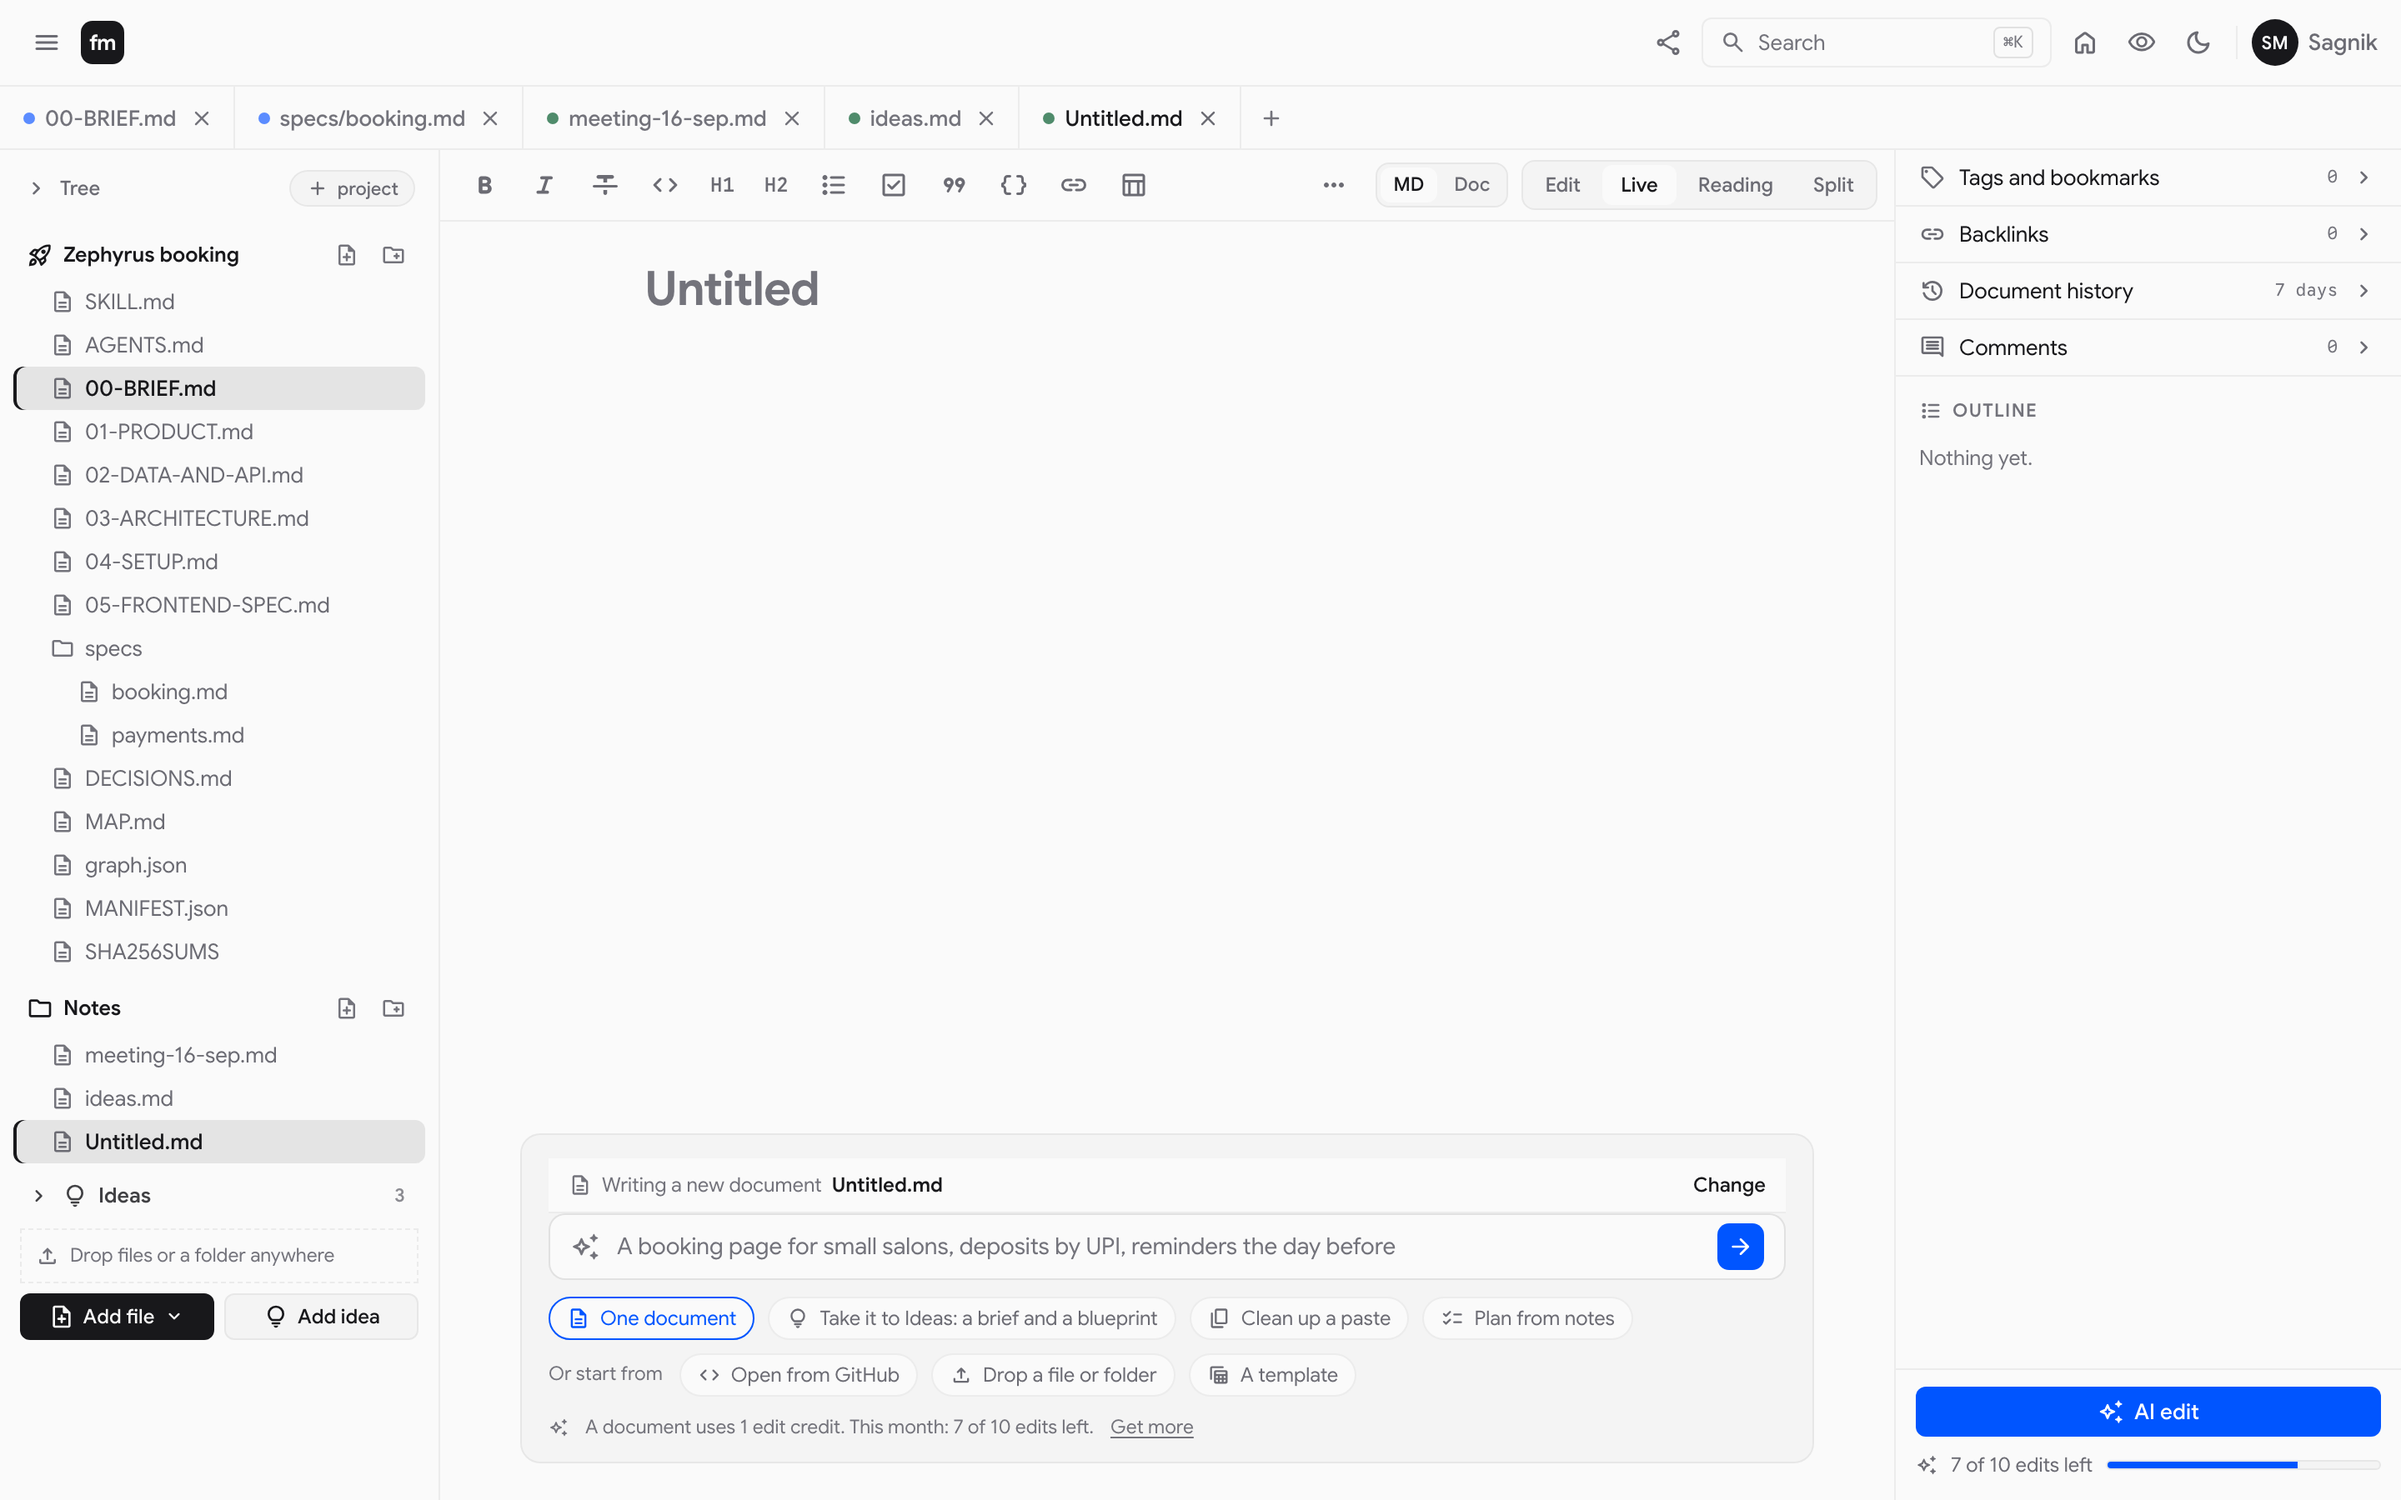
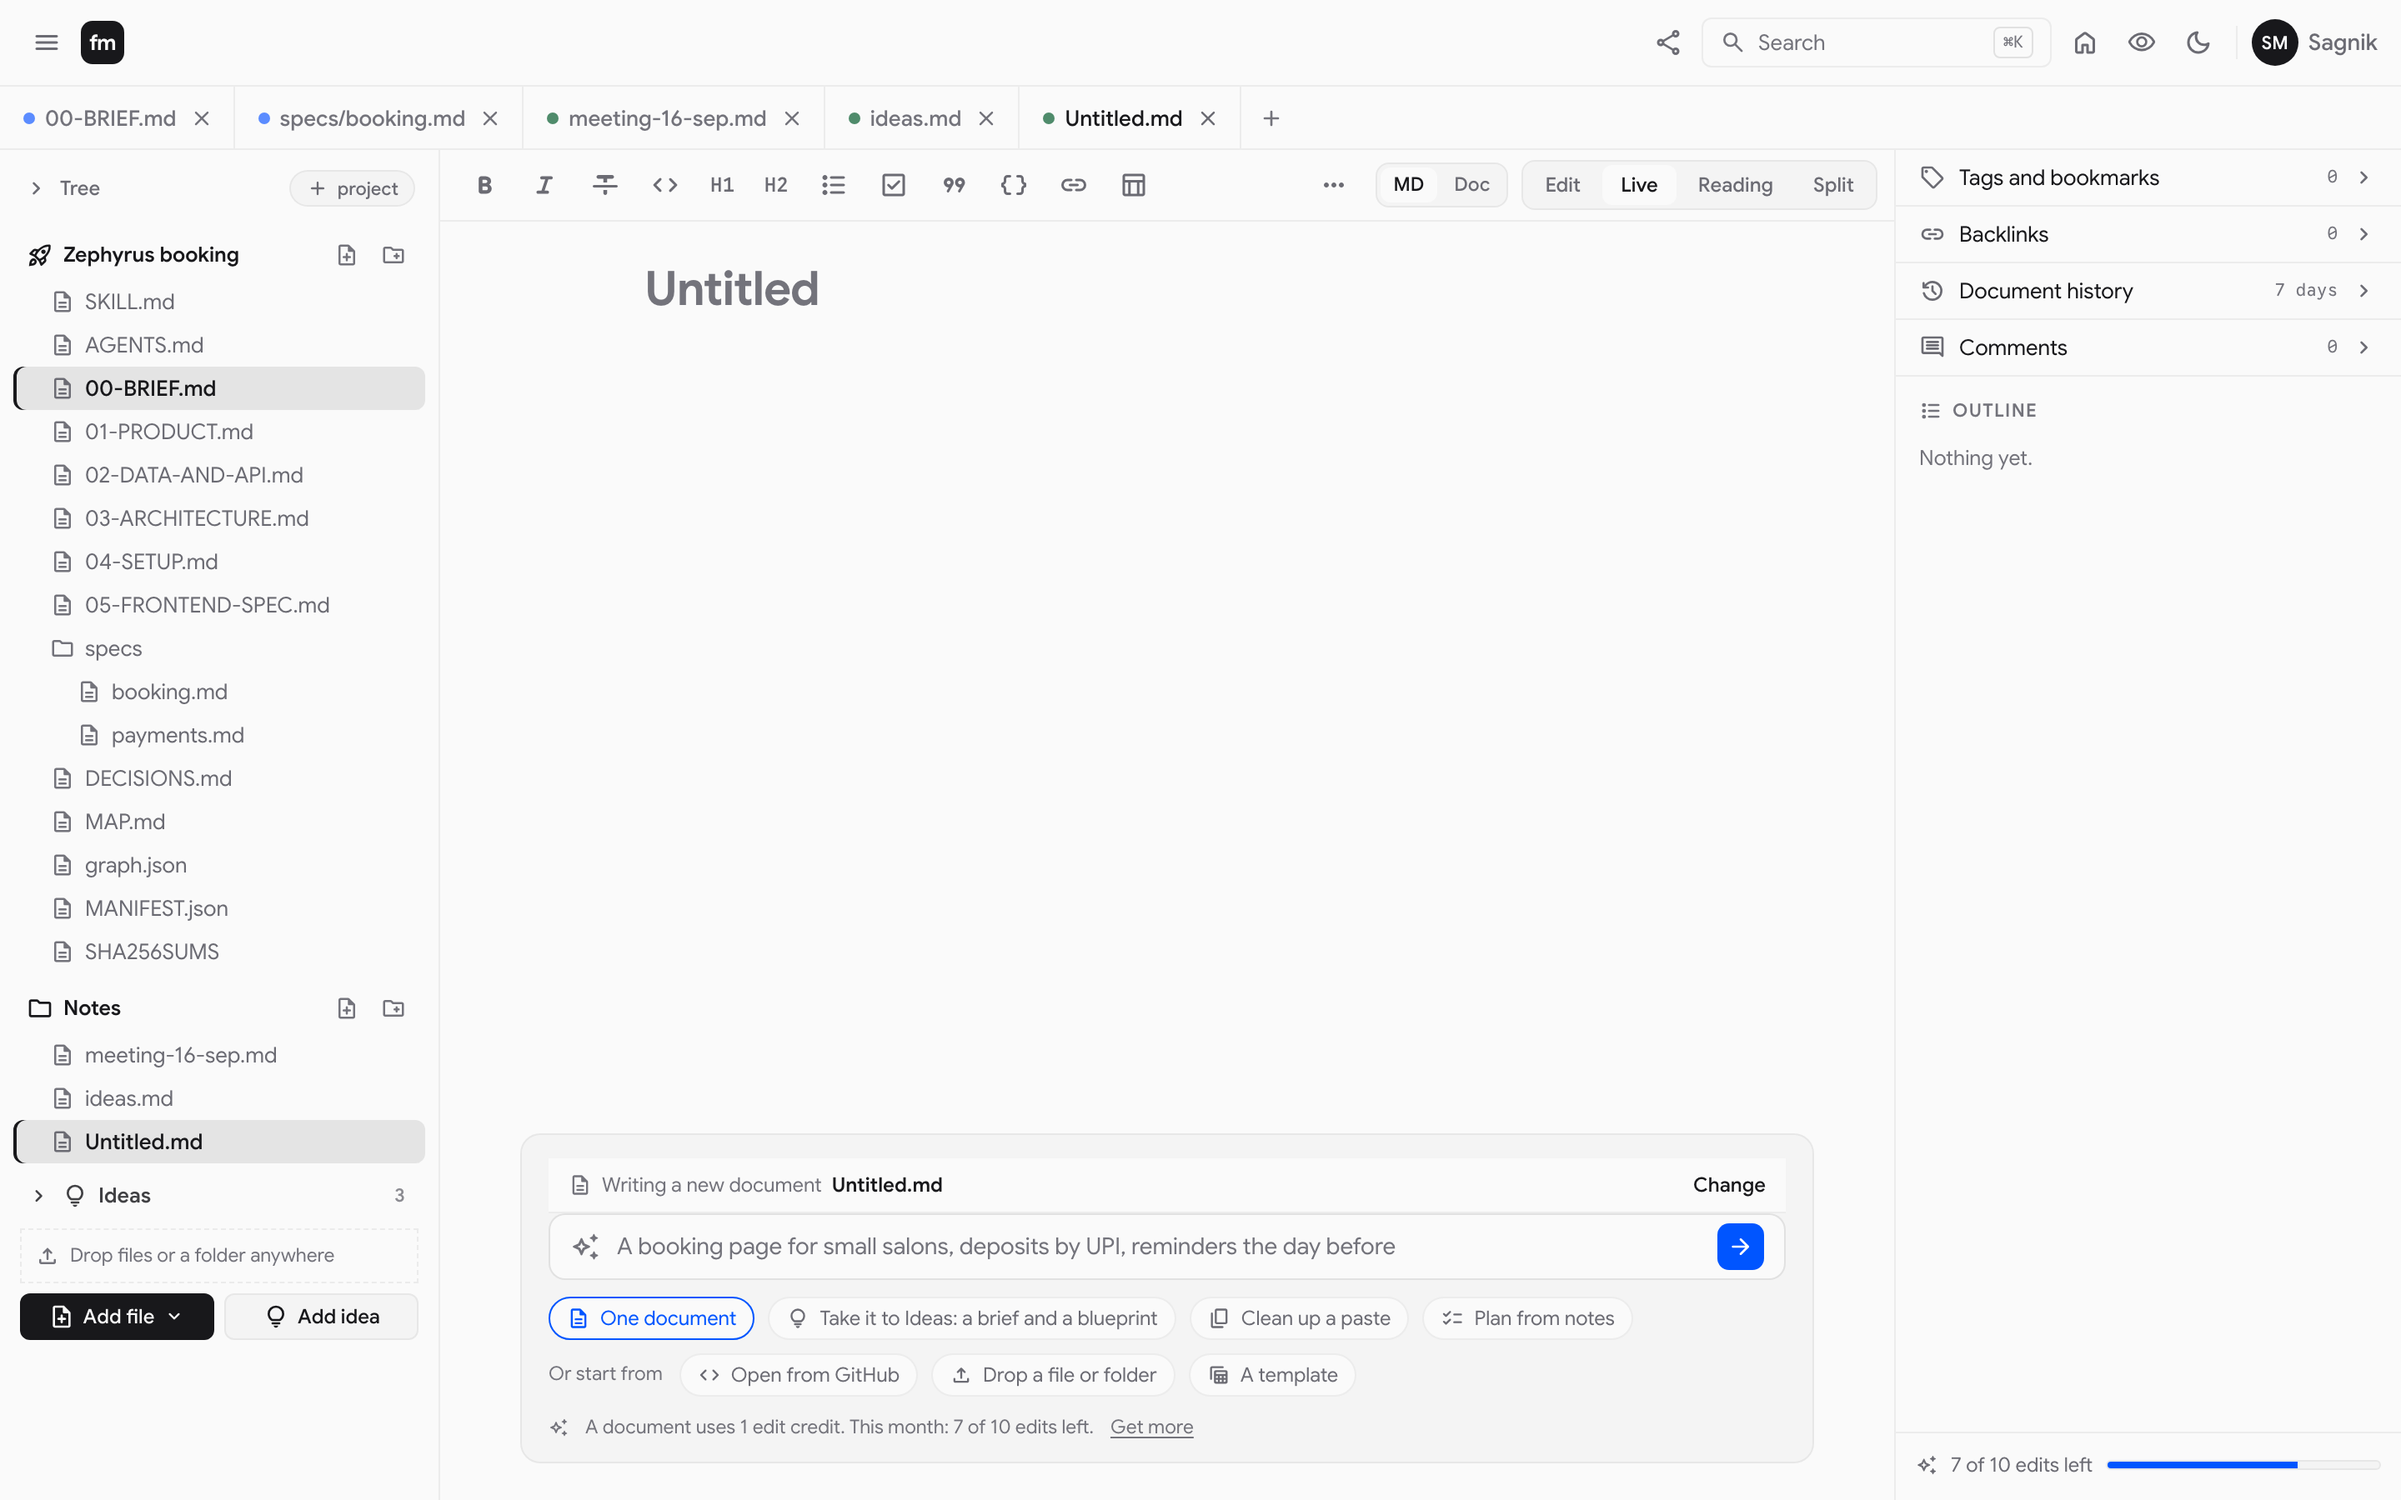
screens: the Add file menu, AI opened over the workspace, and S06 beside the content on an idea
S04 gains two frames: the Add file menu (New document, Upload files, Upload a folder,
Import from) and the AI box floating over the document, anchored under the paragraph it
will touch. The full-width AI button leaves the rail foot for a small Ask AI launcher, as
Notion does it. S06 gains a frame with the box to the right of the content and the pinned
Idea line. S32 lists the chain in its real order with OpenRouter in it.

Changed region(s): [[0.7812, 0.9022, 1.0, 0.9644]]

diff --git a/docs/mvp0/PRODUCT-PLAN.md b/docs/mvp0/PRODUCT-PLAN.md
@@ -353,6 +353,15 @@ Later, named | A Max tier above Pro; a community as an opt-in index plus GitHub 
 - **Every collapsible is at the top of the right rail**, closed, so the outline takes the height and the AI panel has room to open below `[Z]`.
 - Shortcuts is gone. The tree shows all fifteen blueprint files (F019). The history row reads "7 days" on Free (F018).
 - The phone keeps the toolbar to seven tools and puts the mode segment in the header.
+- **The AI launch works like Notion's.** A small Ask AI button floats at the bottom right of the document, and Space on an empty line does the same. It opens the AI box over the workspace, anchored under the block being worked on, rather than taking a row of the layout. The rail keeps only the credit meter `[Z]`.
+
+<div class="pair"><img src="screens/s04-workspace-add.png"><img src="screens/s04-workspace-add-phone.png"></div>
+
+- **The Add file menu:** New document, Upload files, Upload a folder, and Import from. On the phone it is a sheet with Add idea at the foot.
+
+<div class="pair"><img src="screens/s04-workspace-ai.png"><img src="screens/s04-workspace-ai-phone.png"></div>
+
+- **The AI box open over the workspace.** The paragraph it will touch is tinted, the first line names the document and the section, and the common verbs sit under the input with their cost.
 
 **Why.** `[Z]` the founder's review of 18 September, in full in `SCREEN-CHANGES-2026-09-18.md`. `[R]` this is md.sgnk.ai as shipped. `[M]` Material: a single pane under 600 dp.
 
@@ -376,6 +385,10 @@ Later, named | A Max tier above Pro; a community as an opt-in index plus GitHub 
 - One box on an empty document. Four chips for the common asks. A second row for the other ways to start.
 - The cost is stated before the click: one edit credit, seven of ten left. The rail counts are zero on an empty document (F022).
 - Taking it to Ideas is a chip, not a second product.
+
+<div class="pair"><img src="screens/s06-ai-writing-idea.png"><img src="screens/s06-ai-writing-idea-phone.png"></div>
+
+- **Beside the content, on an idea.** On a page that already has text the box opens to the right of it. Working on an idea, the first line reads Idea and the idea's name, and it stays pinned while the idea is open. The idea itself is open from the Ideas section of the tree.
 
 **Why.** `[R]` the funnel is the box. `[M]` PAIR: "allow users to adapt the output to their needs, edit it, or turn it off."
 
